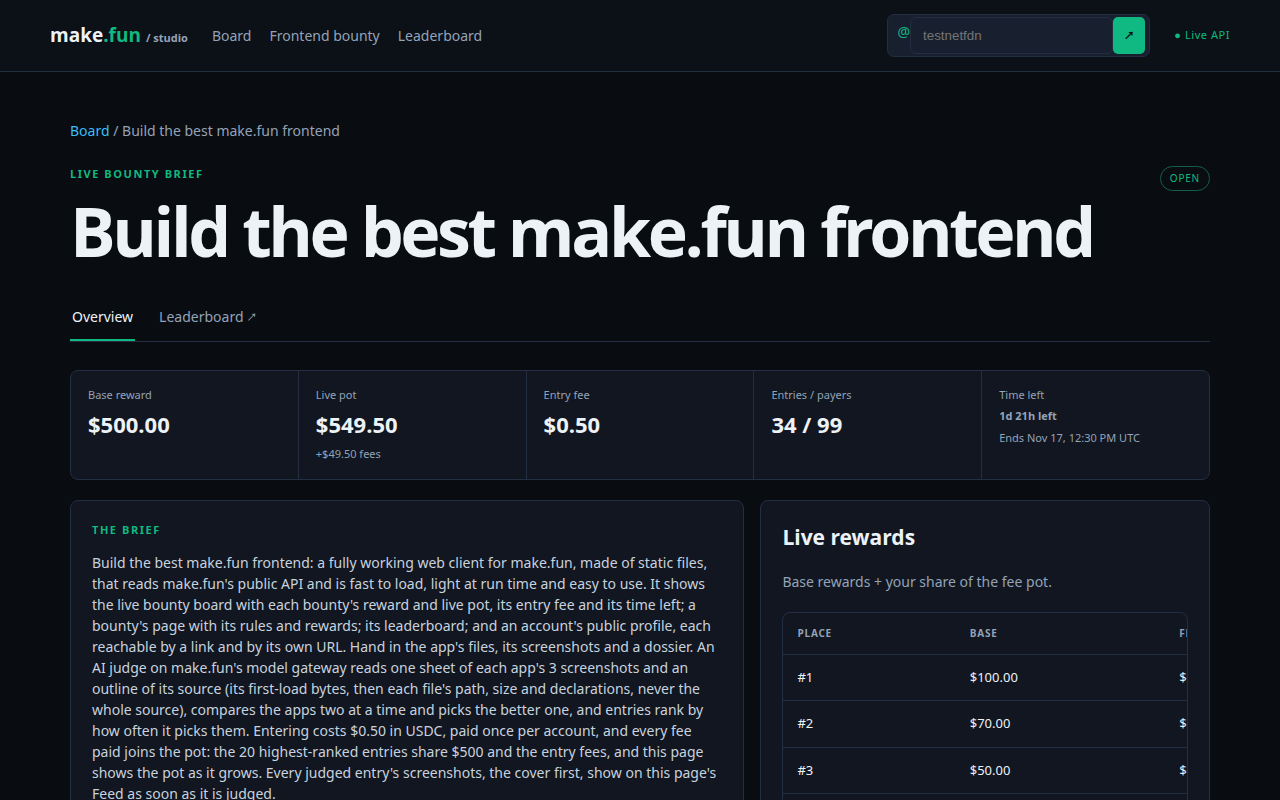
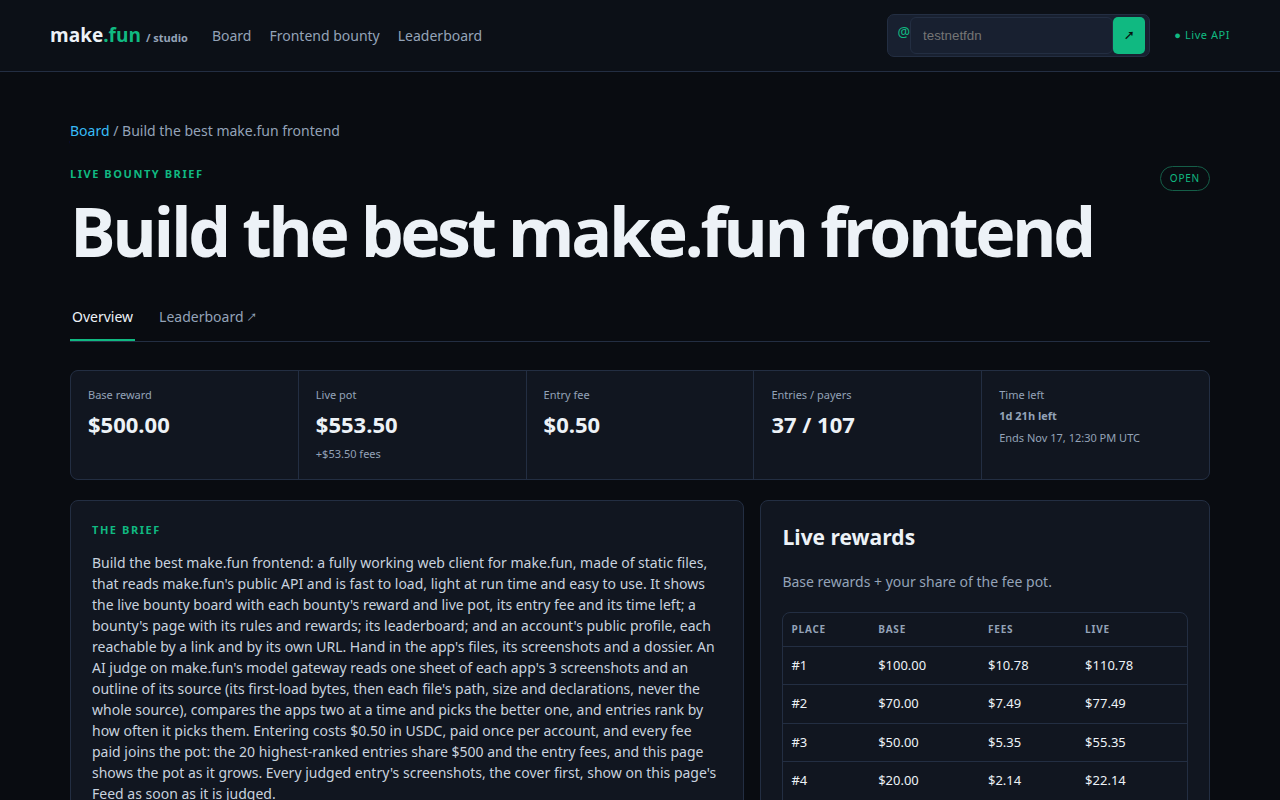
Fix live profile schema, compact rewards, and board telemetry

diff --git a/app/profile.js b/app/profile.js
@@ -1,36 +1,49 @@
 import { h, link, avatar, money, date } from './format.js';
 import { crumb, eyebrow, stat } from './views.js';
 
+function table(labels, rows) {
+  return h('div', { class: 'table-wrap' }, h('table', { class: 'compact' },
+    h('thead', {}, h('tr', {}, labels.map(label => h('th', {}, label)))),
+    h('tbody', {}, rows)));
+}
+
 export default function profile(data) {
   const p = data.profile || data;
   const handle = p.handle || p.username || 'builder';
   const record = p.record || p.stats || p;
-  const submissions = data.submissions || p.submissions || [];
+  const submissions = data.solutions || data.submissions || p.solutions || p.submissions || [];
   const payouts = data.payouts || p.payouts || [];
   const heading = h('div', { class: 'profile-head' },
-    avatar(p.avatar_url || p.avatar || p.image, handle),
+    avatar(p.avatar_url || p.avatar?.url || p.image, handle),
     h('div', {}, eyebrow('BUILDER PROFILE'), h('h1', {}, `@${handle}`),
       h('h2', {}, p.display_name || p.name || 'Independent builder'),
       h('p', {}, p.bio || 'Building in public on make.fun.'),
       h('small', {}, p.joined_at ? `Joined ${date(p.joined_at)}` : 'Public account')));
   const stats = h('div', { class: 'kpis' },
-    stat('Entered', record.entered ?? submissions.length),
-    stat('Placed', record.placed ?? 0),
-    stat('Won', record.won ?? 0),
-    stat('Best rank', record.best_rank ?? '—'),
-    stat('Total earned', money(record.total_earned_usd || record.total_earned)));
+    stat('Entered', record.competitions_entered ?? submissions.length),
+    stat('Placed', record.competitions_placed ?? 0),
+    stat('Won', record.competitions_won ?? 0),
+    stat('Best rank', record.best_placement ?? '—'),
+    stat('Total earned', money(record.prize_usd)));
   const historyRows = submissions.map(s => {
-    const slug = s.competition?.slug || s.competition_slug || s.slug || 'makefun-frontend-01';
-    return h('tr', {}, h('td', {}, link(s.title || slug, `#/bounty/${slug}`)),
-      h('td', {}, link('Standings ↗', `#/bounty/${slug}/leaderboard`)),
-      h('td', {}, s.status || 'Submitted'));
+    const slug = s.competition?.slug || s.competition_slug;
+    const title = s.competition?.title || slug || 'Competition';
+    return h('tr', {},
+      h('td', {}, slug ? link(title, `#/bounty/${encodeURIComponent(slug)}`) : title),
+      h('td', {}, s.title || 'Untitled submission'),
+      h('td', {}, s.score?.display ?? '—'),
+      h('td', {}, s.placement != null ? `#${s.placement}` : s.status || s.competition?.status || 'Submitted'));
   });
   const payoutRows = payouts.map(payout => h('tr', {},
-    h('td', {}, date(payout.created_at)), h('td', {}, money(payout.amount_usd))));
+    h('td', {}, date(payout.paid_at || payout.created_at)),
+    h('td', {}, payout.competition?.title || 'Competition'),
+    h('td', {}, payout.place != null ? `#${payout.place}` : '—'),
+    h('td', {}, money(payout.amount_usd))));
   const history = h('article', { class: 'panel' }, h('h2', {}, 'Submission history'),
-    h('div', { class: 'table-wrap' }, h('table', {}, h('tbody', {}, historyRows))));
+    table(['Competition', 'Submission', 'Score', 'Status / placement'], historyRows));
   const payments = h('aside', { class: 'panel' }, h('h2', {}, 'Payouts'),
-    payoutRows.length ? h('table', {}, h('tbody', {}, payoutRows)) : h('p', { class: 'muted' }, 'No payouts recorded yet.'));
+    table(['Date', 'Competition', 'Place', 'Amount'], payoutRows),
+    payouts.length ? null : h('p', { class: 'muted' }, 'No payouts recorded yet.'));
   return h('section', {}, crumb(`@${handle}`), heading, stats,
     h('div', { class: 'detail-grid' }, history, payments));
 }

diff --git a/app/views.js b/app/views.js
@@ -30,7 +30,8 @@ export function board(data) {
   let query = '';
   let sort = 'pot';
   const open = items.filter(b => (b.status || 'open') === 'open');
-  const nearest = [...open].sort((a, b) => new Date(a.deadline) - new Date(b.deadline))[0];
+  const nearest = open.filter(b => new Date(b.deadline) > Date.now())
+    .sort((a, b) => new Date(a.deadline) - new Date(b.deadline))[0];
   const grid = h('div', { class: 'grid' });
   const count = h('span', { class: 'result-count' });
   function draw() {
@@ -68,7 +69,7 @@ export function board(data) {
       h('div', { class: 'hero-note' }, h('span', { class: 'live' }, '● MARKET IS LIVE'), h('p', {}, 'Your next idea', h('br'), 'starts here. ↙'))),
     h('div', { class: 'telemetry' }, stat('Open bounties', open.length, 'Ready for your best work'),
       stat('Combined live pot', money(open.reduce((n, b) => n + Number(b.potUsd ?? b.rewardAmount), 0)), 'Base rewards + entry fees'),
-      stat('Total submissions', items.reduce((n, b) => n + Number(b.submissionCount || 0), 0), 'Builders making their mark'),
+      stat('Total submissions', items.reduce((n, b) => n + Number(b.submissionCount || 0), 0).toLocaleString('en-US'), 'Builders making their mark'),
       stat('Shortest active deadline', nearest ? countdown(nearest.deadline) : '—', 'Every second counts')),
     h('div', { class: 'section-title' }, h('h2', {}, 'The bounty board'), count),
     h('div', { class: 'toolbar' }, pills(['all', 'open', 'resolved'], value => { status = value; }), search, select),

diff --git a/app/format.js b/app/format.js
@@ -37,9 +37,16 @@ setInterval(() => {
 export function avatar(image, name = '?') {
   const box = h('span', { class: 'avatar', 'aria-label': name }, name.substring(0, 2).toUpperCase());
   if (image) {
-    const url = new URL(image, 'https://make.fun');
-    if (url.origin === 'https://make.fun') {
-      const img = h('img', { src: url.href, crossorigin: 'anonymous', alt: '', loading: 'lazy' });
+    let url;
+    try {
+      url = new URL(image, 'https://make.fun');
+    } catch {
+      return box;
+    }
+    if (url.protocol === 'https:') {
+      const img = h('img', { src: url.href,
+        crossorigin: url.origin === 'https://make.fun' ? 'anonymous' : null,
+        alt: '', loading: 'lazy' });
       img.addEventListener('error', () => img.remove());
       box.append(img);
     }

diff --git a/app/style.css b/app/style.css
@@ -76,6 +76,8 @@ main { max-width: 1180px; margin: 0 auto; padding: 48px 20px 70px; min-height: c
 .phase-strip small { color: var(--muted); font-size: 11px; }
 .table-wrap { overflow: auto; border: 1px solid var(--line); border-radius: 8px; margin-top: 20px; }
 table { width: 100%; border-collapse: collapse; min-width: 760px; }
+table.compact { min-width: 0; }
+table.compact th, table.compact td { padding: 9px 8px; white-space: nowrap; }
 th, td { text-align: left; padding: 13px 14px; border-bottom: 1px solid var(--line); font-size: 13px; }
 th { color: var(--muted); font-size: 10px; text-transform: uppercase; letter-spacing: .08em; }
 .person { display: flex; align-items: center; gap: 8px; }

diff --git a/app/bounty.js b/app/bounty.js
@@ -15,7 +15,7 @@ export default function bounty(b) {
   const rewardPanel = h('aside', { class: 'panel' },
     h('h2', {}, 'Live rewards'),
     h('p', { class: 'muted' }, 'Base rewards + your share of the fee pot.'),
-    h('div', { class: 'table-wrap' }, h('table', {},
+    h('div', { class: 'table-wrap' }, h('table', { class: 'compact' },
       h('thead', {}, h('tr', {}, ['Place', 'Base', 'Fees', 'Live'].map(label => h('th', {}, label)))),
       h('tbody', {}, rewardRows))));
   const heading = h('div', { class: 'page-head' },
